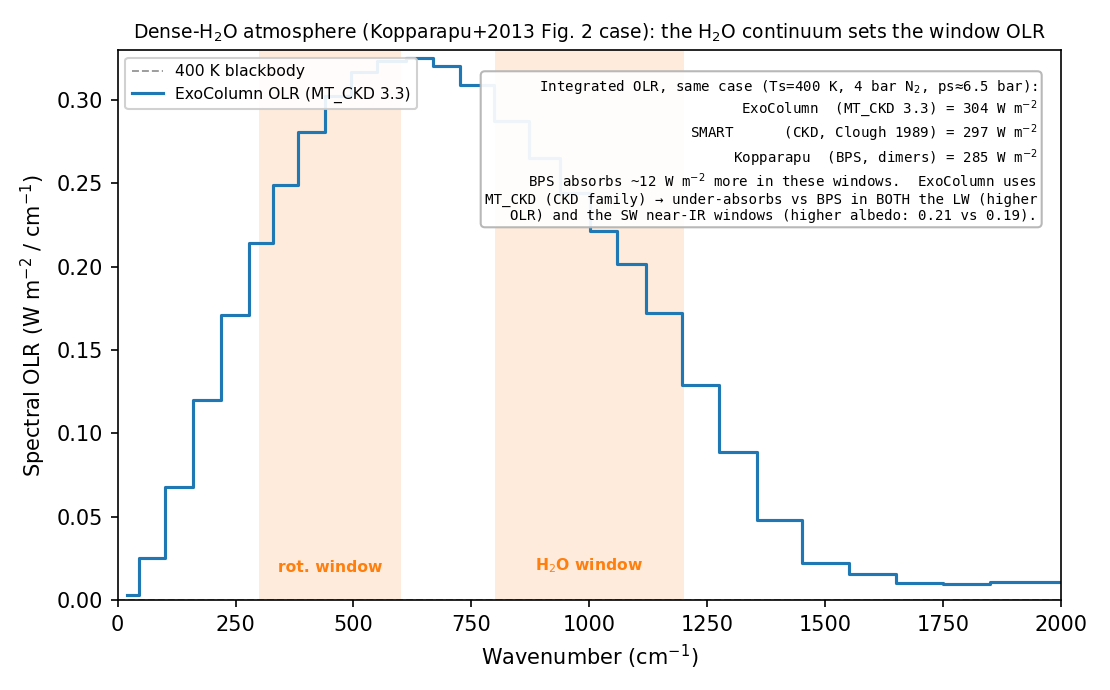
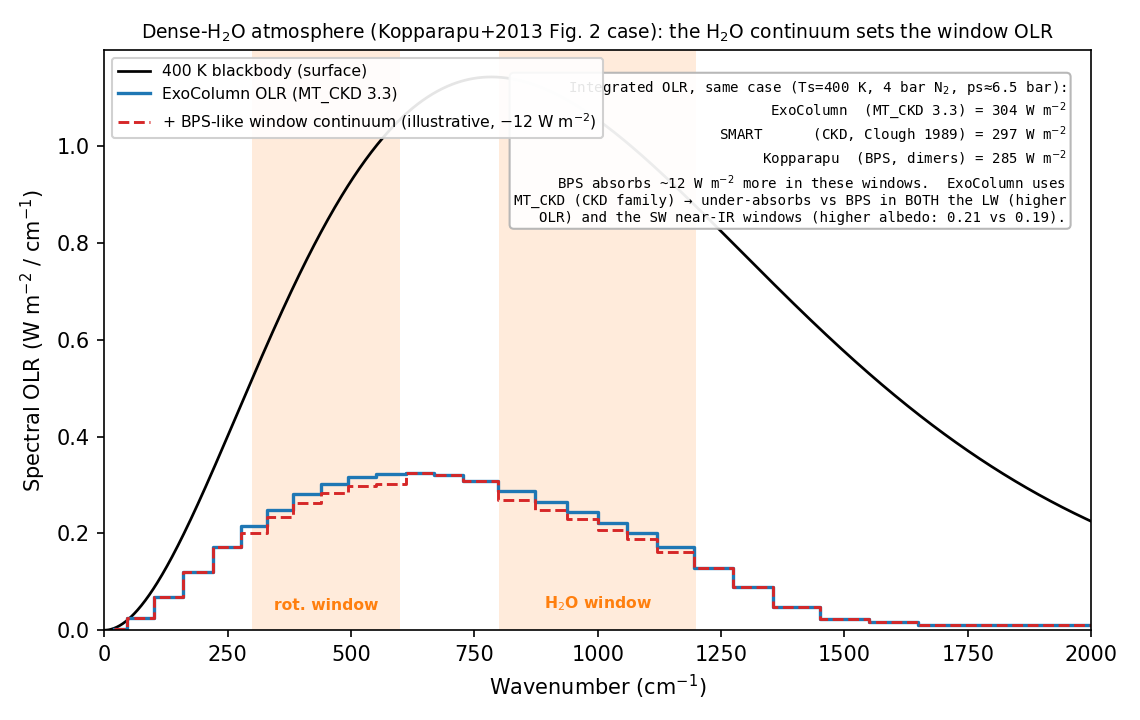
Fix blackbody units in continuum figure; add illustrative BPS curve
The 400 K blackbody was invisible due to a units error in planck_wn (mixed
SI/CGS, ~1e7 too small).  Replace with the standard brightness formula
(c1L=1.191042e-5, c2=1.4387769) so the surface blackbody is correctly scaled,
and show the full BB envelope (Kopparapu+2013 Fig. 2 presentation, y to ~1.2).

Add an illustrative BPS curve: ExoColumn's OLR with the quote's -12 W/m2 window
absorption applied (we have no BPS spectral data, only the integrated 285 W/m2),
clearly labelled illustrative.  It dips below the MT_CKD curve in the 800-1200 and
300-600 cm-1 H2O windows, visualising the continuum effect.

diff --git a/tools/diag_continuum_olr.py b/tools/diag_continuum_olr.py
@@ -79,11 +79,12 @@ NML_CASE = """\
 
 
 def planck_wn(wn_cm, T):
-    """Planck spectral radiance per wavenumber -> hemispheric flux density [W/m2/cm-1]."""
-    h = 6.62607015e-34; c = 2.99792458e10; kB = 1.380649e-23   # cgs-ish (c in cm/s)
-    nu = wn_cm
-    B = (2*h*c**2*nu**3) / (np.exp(h*c*nu/(kB*T)) - 1.0)        # erg/s/cm2/sr/cm-1
-    return np.pi * B * 1e-3                                     # -> W/m2/cm-1
+    """Planck hemispheric flux density [W m-2 / cm-1] for wavenumber wn_cm [cm-1].
+    F = pi*B, B = c1L*nu^3/(exp(c2*nu/T)-1), c1L=1.191042e-5 mW/(m2 sr cm-1)."""
+    c1L = 1.1910429e-5   # mW m-2 sr-1 (cm-1)-4
+    c2  = 1.4387769      # cm K
+    B = c1L * wn_cm**3 / np.expm1(c2 * wn_cm / T)   # mW/(m2 sr cm-1)
+    return np.pi * B * 1e-3                          # -> W/(m2 cm-1)
 
 
 def main():
@@ -107,27 +108,43 @@ def main():
     olr_density = bolr / dwn                          # W/m2/cm-1
     win1 = (wm >= 800) & (wm <= 1200)
     win2 = (wm >= 300) & (wm <= 600)
+    win = win1 | win2
 
-    fig, ax = plt.subplots(figsize=(7.4, 4.6), dpi=300)
+    # Illustrative BPS: Kopparapu's BPS continuum absorbs ~12 W/m2 MORE than CKD in
+    # the H2O windows (Sec 2.2.2: SMART/CKD 297 -> their/BPS 285).  We have NO BPS
+    # spectral data, so apply that window suppression to OUR OLR to show the EFFECT
+    # (illustrative, not a computed BPS spectrum).
+    dOLR_BPS = SMART_CKD - KOPP_BPS                   # 12 W/m2
+    w_sum = bolr[win].sum()
+    bolr_bps = bolr.copy()
+    bolr_bps[win] *= (w_sum - dOLR_BPS) / w_sum
+    bps_density = bolr_bps / dwn
+
+    bb = planck_wn(wm, 400.)
+    ymax = 1.05 * np.nanmax(bb)
+
+    fig, ax = plt.subplots(figsize=(7.6, 4.8), dpi=300)
     fig.patch.set_facecolor('white'); ax.set_facecolor('white')
 
     # continuum-sensitive windows (Kopparapu Sec 2.2.2)
     for lo, hi in [(800, 1200), (300, 600)]:
         ax.axvspan(lo, hi, color='C1', alpha=0.15, lw=0)
-    ax.text(1000, 0.015, 'H$_2$O window', ha='center', va='bottom',
+    ax.text(1000, 0.03*ymax, 'H$_2$O window', ha='center', va='bottom',
             fontsize=7.5, color='C1', fontweight='bold')
-    ax.text(450, 0.015, 'rot. window', ha='center', va='bottom',
+    ax.text(450, 0.03*ymax, 'rot. window', ha='center', va='bottom',
             fontsize=7.5, color='C1', fontweight='bold')
 
-    # 400 K blackbody reference
-    wn_fine = np.linspace(max(we.min(), 1), 2000, 800)
-    ax.plot(wn_fine, planck_wn(wn_fine, 400.), color='0.6', lw=0.9, ls='--',
-            label='400 K blackbody')
-    # ExoColumn spectral OLR
-    ax.plot(wm, olr_density, drawstyle='steps-mid', color='C0', lw=1.5,
+    # 400 K surface blackbody (now correctly scaled)
+    wn_fine = np.linspace(max(we.min(), 1), 2000, 1000)
+    ax.plot(wn_fine, planck_wn(wn_fine, 400.), color='k', lw=1.3,
+            label='400 K blackbody (surface)')
+    # ExoColumn spectral OLR (MT_CKD) and the illustrative BPS variant
+    ax.plot(wm, olr_density, drawstyle='steps-mid', color='C0', lw=1.6,
             label='ExoColumn OLR (MT_CKD 3.3)')
+    ax.plot(wm, bps_density, drawstyle='steps-mid', color='C3', lw=1.4, ls='--',
+            label='+ BPS-like window continuum (illustrative, $-$12 W m$^{-2}$)')
 
-    ax.set_xlim(0, 2000); ax.set_ylim(0, 0.33)
+    ax.set_xlim(0, 2000); ax.set_ylim(0, ymax)
     ax.set_xlabel('Wavenumber (cm$^{-1}$)')
     ax.set_ylabel('Spectral OLR (W m$^{-2}$ / cm$^{-1}$)')
     ax.set_title('Dense-H$_2$O atmosphere (Kopparapu+2013 Fig. 2 case): '
